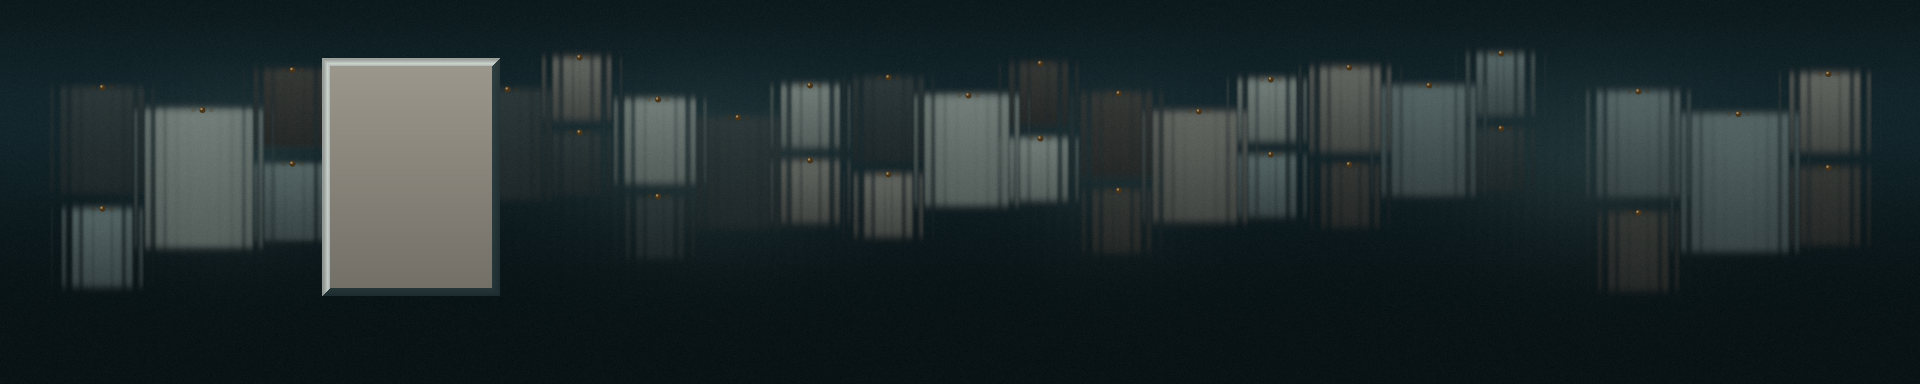
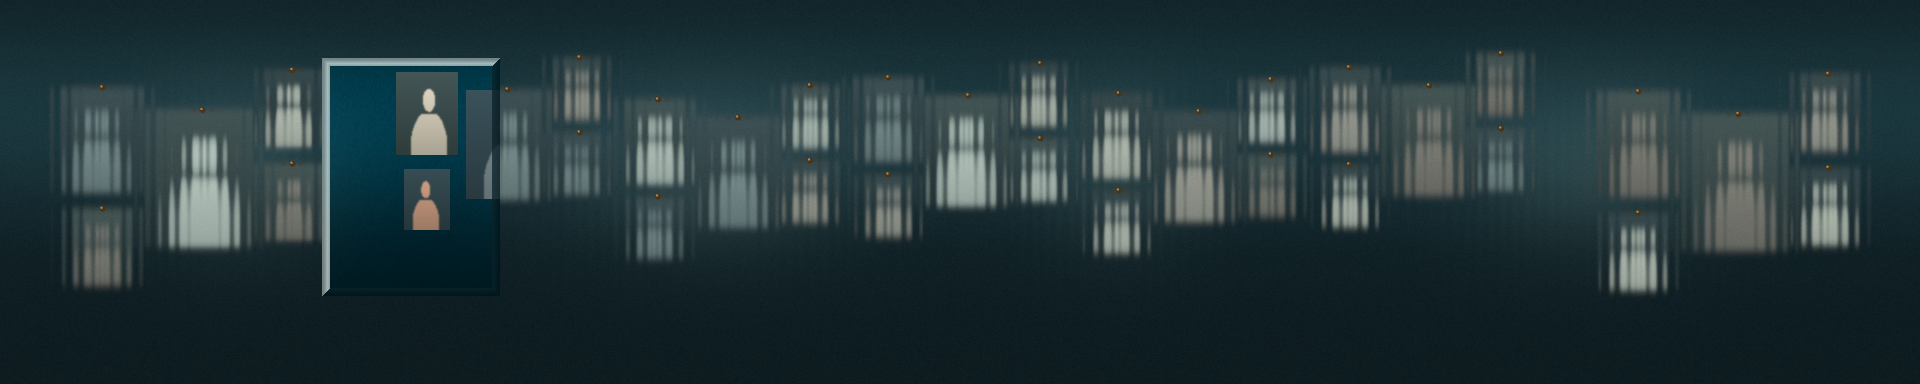
Решения арт-директора по «Просвету»: форма окна, фраза, роли экранов, финал
Claude-Session: https://claude.ai/code/session_01A8nSHxPdxFUsNYF2YVY3yz

diff --git a/projects/pz26_nagrazhdenie/02_concept/okno_decisions.md b/projects/pz26_nagrazhdenie/02_concept/okno_decisions.md
@@ -1,0 +1,23 @@
+# Решения арт-директора по концепции «Просвет» («Окно в размытии»)
+
+Приняты по поручению владельца («прими решение как арт-директор»). Ворота 02 формально остаются за владельцем и клиентом;
+всё клиентское — на одобрение. Каждое решение — с причиной (принцип art-direction-taste: выбор, а не умолчание).
+
+| # | Вопрос | РЕШЕНИЕ | Почему |
+|---|---|---|---|
+| 1 | Форма окна | **Вертикальный проём 4:5 (створка), без заголовка и кнопок; край — фаска стекла с тёплым бликом, не нарисованная линия.** Рождается из точки через круг и в конце закрывается обратно в точку | Портрет человека живёт в вертикали; это окно гостиницы, а не интерфейс ОС и не «детектор лиц» из референса. Разные главы отличаются глаголом открывания, не формой |
+| 2 | Размеры | **Два вида окон:** «окна людей» ВСЕ одного размера (≈1000×1250 px на холсте 7680×1536 — ДОПУЩЕНИЕ), «окна мира» — большие, с деталями отеля, они делают переезды через стыки | Равенство 35 лауреатов заложено в размере; «разные размеры» из идеи владельца сохранены для мира, не для людей |
+| 3 | Тезис про «незаметность» | **Снять.** Размытие = вечернее матовое стекло, огни окон города; не «нас не замечают». Фраза фильма: **«Свет в окне горит всегда. Сегодня мы подошли ближе.»** | Тезис «хорошее гостеприимство не замечают» может задеть лауреатов («меня размыли»). Новая фраза тёплая, про приближение и внимание, без отрицания |
+| 4 | Где имя лауреата | **Как в ТЗ клиента: лицо/кадр — в окне на центре; имя, компания, номинация — на боковых экранах.** Связь «окно → карточка» — **нить света** через стык на уровне низа окна | Клиент закрепил роли экранов; нить света превращает это ограничение в приём (эстафета), а не в разрыв |
+| 5 | Точки | **Только 35 лауреатов.** Точки неподвижны, одной яркости и размера, лежат как огни окон на фасаде; открытое окно оставляет тёплую точку | Равенство, смысл «огни окон» вместо «боке-пыли»; точки не используются как декор |
+| 6 | «Как мышкой» | **Курсора-стрелки нет.** Роль курсора — ключ и нить света; ключ виден 9 раз (вступление, 7 глав, финал), не в каждом из 35 слотов | Стрелка = интерфейс/клише; ключ уже есть в образе премии |
+| 7 | Стекло | **Рифлёное (flute) стекло:** огни превращаются в вертикальные штрихи, не в круглое боке; запасной вариант — матовое с лёгким преломлением, если на LED рифление даёт муар | Отличает от референса (просто расфокус) и от клише «боке-пыль»; риск муара — проверить до показа |
+| 8 | Финал | **Окна 4:5 вытягиваются вниз в вертикальные створки-двери во весь рост** и сливаются с языком вертикальных клипов «Зала победителей»; стекло снимает сумма всех окон | Связывает фильм и инсталляцию в один жест: от окна к двери, от внимания к приглашению. Гостеприимство = впустить |
+| 9 | Съёмка (требования для групп, которые снимают сами) | **В кадре каждого лауреата одна и та же тёплая лампа-практикабль на метке** (≈2700–3000 K, за плечом, в расфокусе = его «огонёк»); один день b-roll деталей отеля (бирки, ручки, латунь, коридор); единый свет и ракурс по грудь; запас по краям кадра | Практический «огонёк» делает точку лауреата реальной; b-roll — материал «окон мира»; единый почерк против 35 разных роликов |
+| 10 | Эпохи (4) | **«Максимум», не ядро** | Не перегружаем ядро в бюджет 450 тыс. |
+| 11 | Потолок | **Ядро фильма работает БЕЗ потолка** (ключ входит сверху экрана); потолок — отдельная статья «максимум» | Потолок не в бюджете клиента; фильм самодостаточен |
+| 12 | Выбор «Зазор» (3D-замок) | **Запасной вариант, не основной.** Основа — «Просвет» | Композитинг по реальным кадрам дешевле и безопаснее 3D-замка при 450 тыс. и 12 днях на сборку |
+| 13 | Тест материала | **До показа клиенту сделать тест-ролик 10 с «окно проезжает стык» (R&D)**, потом показывать | «Вау» держится на материале стекла; без теста оценка идеи 5–7/10 |
+
+## Что остаётся за владельцем/клиентом
+Формулировка фразы (п.3), роли экранов (п.4), потолок и его цена (п.11), число спецноминаций, съёмка (кто и сколько дней).
